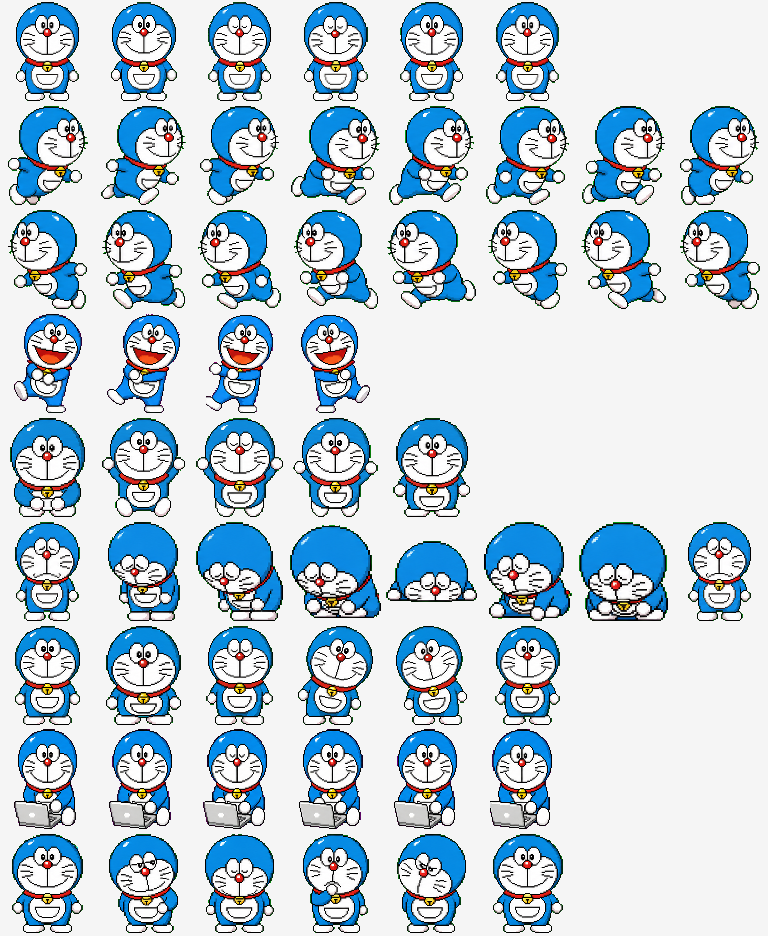
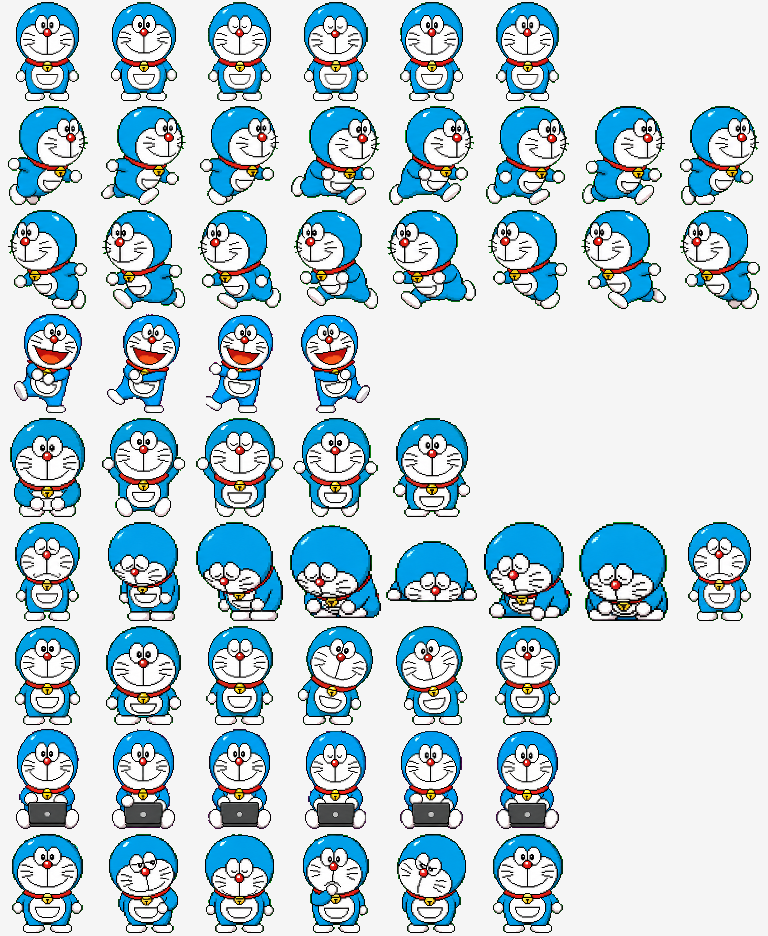
配色校准官方蓝#00A0E9 + 重做敲键盘行(头身比对齐站立帧,更协调)

Changed region(s): [[0.0, 0.7746, 0.75, 0.8985]]

diff --git a/README.md b/README.md
@@ -10,7 +10,8 @@
 
 在标准哆啦A梦宠物包的基础上定制了两个动画:
 
-- **敲键盘干活**:Codex 在后台执行任务时,哆啦A梦坐在小笔记本前打字(原版是原地小跑)
+- **敲键盘干活**:Codex 在后台执行任务时,哆啦A梦坐在小笔记本前打字(原版是原地小跑)。坐姿头身比与站立帧严格对齐,切换时不会突然变大
+- **官方配色校准**:全表主体蓝校准到官方哆啦A梦标准蓝 `#00A0E9`,各状态配色统一
 - **科目三庆祝舞**:任务完成时跳一段抖音科目三——扭胯、踢腿、甩臂画腕(原版是普通挥手)。按官方契约 waving 行为 4 帧,从 8 帧原始动作中抽取关键帧制作
 
 ## 安装
